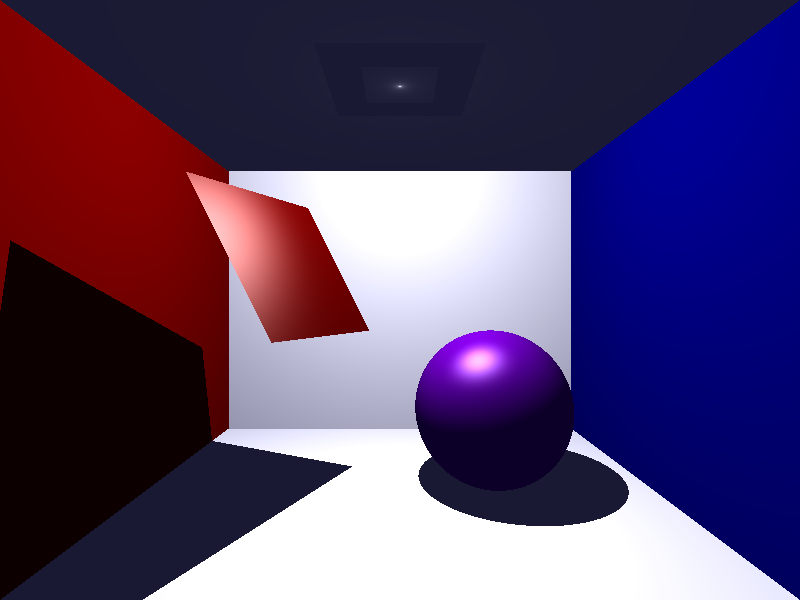
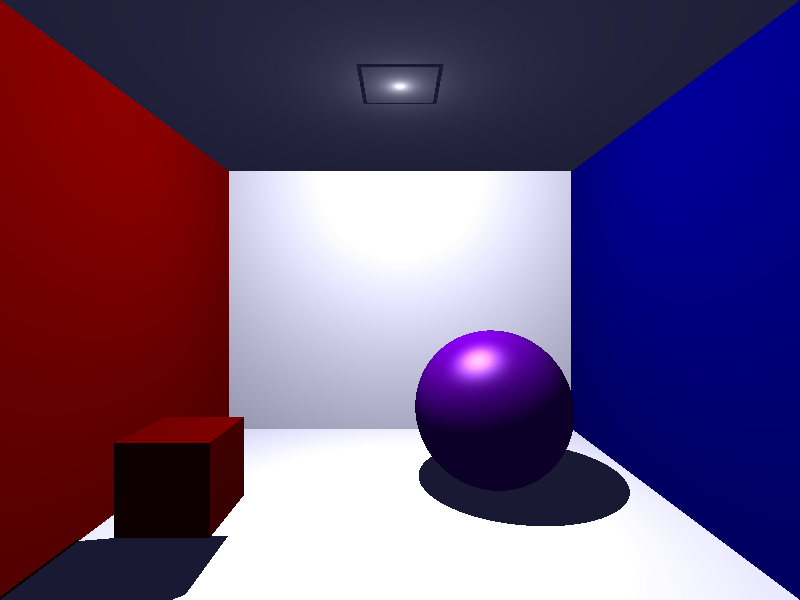
CUBE + plane & rotatefromto comments

diff --git a/VCG_Raytracer/src/scene/shape/Plane.java b/VCG_Raytracer/src/scene/shape/Plane.java
@@ -6,86 +6,6 @@ import utils.algebra.Matrix4x4;
 import utils.algebra.Vec3;
 import utils.algebra.Vec4;
 
-/* 
-public class Plane extends Shape {
-
-    Vec3 normal;
-    Float A,B,C, Q;
-
-    Matrix4x4 myTransformationMatrix;
-    Matrix4x4 myInverseMatrix;
-
-    public Plane(Vec3 _pos, Vec3 _normal, Material _material) {
-        super(_pos, _material);
-        //i think this is the only extra thing we need for a plane?
-        this.normal = _normal.normalize();
-        //ABC UND Q SETZEN
-        A = this.normal.x;
-        B = this.normal.y;
-        C = this.normal.z;
-
-        //Q needs to be constant based off of the normal and plane position
-        Q = -normal.scalar(position);
-
-
-        this.myTransformationMatrix = new Matrix4x4();
-        this.addInvTranslation(_pos);
-        this.myInverseMatrix = myTransformationMatrix.invert();
-        intersectionData.setShape(this);
-    }
-
-    public void addInvTranslation (Vec3 _pos) { //why did we name this inv? when its not inverse??
-        Vec4 homoTrans = new Vec4(_pos.x, _pos.y, _pos.z, 1);
-        myTransformationMatrix = myTransformationMatrix.translateXYZW(homoTrans);
-    }
-
-
-    public Ray createTransformedRay(Ray _ray){
-        Vec3 newOrigin = this.myInverseMatrix.multVec3(_ray.getOrigin(), true);
-        Vec3 newDirection = this.myInverseMatrix.multVec3(_ray.getDirection(), false).normalize();
-        return new Ray(newOrigin, newDirection);
-    }
-
-    public Intersection intersect(Ray ray){
-        Intersection intersection = new Intersection();
-
-        Ray transformedRay = createTransformedRay(ray);
-
-        Vec3 ray_origin = transformedRay.getOrigin();
-        Vec3 ray_direction = transformedRay.getDirection().add(position);
-        
-        float check = normal.scalar(ray_direction);
-        float t = -(A * ray_origin.x + B * ray_origin.y + C * ray_origin.z + Q)/(A * ray_direction.x + B * ray_direction.y + C * ray_direction.z);
-        //think should be the same as
-        t = -(normal.scalar(ray_origin) + Q )/ normal.scalar(ray_direction);
-
-        //check < 0 to see if we are hitting the plane from the front -> as long as we dont have a plane between a shape and a light this should be fine
-        intersection.setHit(check < 0); 
-        intersection.setShape(this);
-        intersection.setNormal(normal);
-        intersection.setDistance(ray.calculateRayAt(t).length());
-        //System.err.println(intersectionData.getDistance());
-        intersection.setIntersectionPoint(ray_origin.add(ray_direction.multScalar(t)));
-
-
-        // We need: local intersection point
-        Vec3 local_intersection = ray_origin.add(ray_direction.multScalar(t));
-        //Transform into global coordinates
-        Vec3 global_intersection = myTransformationMatrix.multVec3(local_intersection, true);
-
-        intersection.setDistance(global_intersection.sub(ray.getOrigin()).length());
-        intersection.setIntersectionPoint(global_intersection);
-        intersection.setShape(this);
-        intersection.setInRay(ray);
-        // OutRay is set in Material Shadow calc if needed
-
-        return intersection;
-    }
-    
-}*/
-
-
-//testing version 
 public class Plane extends Shape {
 
     protected Matrix4x4 myTransformationMatrix;
@@ -98,22 +18,17 @@ public class Plane extends Shape {
         super(pos, material);
         this.normal = normal;
 
-        this.myTransformationMatrix = new Matrix4x4();
-
         setupMatrix(pos, normal.normalize());
-
         this.myInverseMatrix = myTransformationMatrix.invert();
-        intersectionData.setShape(this);
     }
 
     private void setupMatrix(Vec3 pos, Vec3 normal) {
-        // lokale Plane: y = 0, Normal (0,1,0)
-        // jetzt Matrix bauen, die (0,1,0) auf normal rotiert
+        // startingpoint for plane:
+        // local Plane: y = 0, Normal (0,1,0) --> this is pretty much the same as in sphere where we take as startingpoint 0,0,0 with radius 1
+
         Matrix4x4 rotation = Matrix4x4.rotationFromTo(new Vec3(0, 1, 0), normal);
-
         Matrix4x4 translation = new Matrix4x4().translateXYZW(new Vec4(pos.x, pos.y, pos.z, 1));
-
-        // Reihenfolge wie bei Sphere: erst Rotation, dann Translation
+        //first we rotate then we translate
         myTransformationMatrix = translation.mult(rotation);
     }
 
@@ -124,41 +39,42 @@ public class Plane extends Shape {
         return new Ray(newOrigin, newDirection);
     }
 
-    @Override
+
     public Intersection intersect(Ray ray) {
         Intersection intersection = new Intersection();
 
         Ray transformedRay = createTransformedRay(ray);
 
-        Vec3 localOrigin = transformedRay.getOrigin();
-        Vec3 localDirection = transformedRay.getDirection();
+        Vec3 rayOrigin = transformedRay.getOrigin();
+        Vec3 rayDirection = transformedRay.getDirection();
 
-        float check = localNormal.scalar(localDirection);
+        float check = localNormal.scalar(rayDirection);
 
+        //treffen wir die plane? -> safety check to make sure the ray isnt going parallel to the plane
+        //basically step size on Y -> if 0 we never hit plane
         if (Math.abs(check) < 0.0001f) {
             return null;
         }
 
-        // lokale Plane ist y = 0
-        float t = -localOrigin.y / check;
+        // local Plane we've defined as y = 0
+        float t = -rayOrigin.y / check;
 
+        //distance check to make sure the hit is infront of us and not behind us
         if (t <= 0.0001f) {
             return null;
         }
 
-        Vec3 localIntersection = localOrigin.add(localDirection.multScalar(t));
+        //transform everything to global coordinate system
+        Vec3 localIntersection = rayOrigin.add(rayDirection.multScalar(t));
         Vec3 globalIntersection = myTransformationMatrix.multVec3(localIntersection, true);
 
-        //isnt this completely overkill like we dont need this since we can simply save the normal from constructor and set that
-        Vec3 globalNormal = myInverseMatrix
-            .transpose()
-            .multVec3(localNormal, false)
-            .normalize();
+        //we do this here now since else i think it would break later if we end up doing non-uniform scaling
+        Vec3 globalNormal = myInverseMatrix.transpose().multVec3(localNormal, false).normalize();
 
         intersection.setHit(true);
         intersection.setDistance(globalIntersection.sub(ray.getOrigin()).length());
         intersection.setIntersectionPoint(globalIntersection);
-        intersection.setNormal(normal);//changed this from gloabalNormal to normal given in constructor
+        intersection.setNormal(globalNormal); //why not just use normal? -> read comment above globalNormal
         intersection.setShape(this);
         intersection.setInRay(ray);
 

diff --git a/VCG_Raytracer/src/scene/shape/Cube.java b/VCG_Raytracer/src/scene/shape/Cube.java
@@ -16,46 +16,61 @@ public class Cube extends Square{
         //okay yea cant get this perfectly working so for now ill leave it like this
         //-> basically lighting is scuff
 
+        //we need to save the distance of each side of our cube that gets hit and only return the closest hit AND NOT THE FIRST!!!
+        Intersection closest = null;
+        float closestDistance = Float.MAX_VALUE;
+
         this.normal = new Vec3(1, 0, 0);
         test = new Square(this.size, new Vec3(position.x + size/2, position.y, position.z), normal, material);
         Intersection side1 = test.intersect(ray);
-        if(side1 != null && side1.isHit())
-            return side1;
+        if(side1 != null && side1.isHit() && side1.getDistance() < closestDistance) {
+            closest = side1;
+            closestDistance = side1.getDistance();
+        }
 
         this.normal = new Vec3(-1, 0, 0);
         test = new Square(this.size, new Vec3(position.x - size/2, position.y, position.z), normal, material);
         Intersection side2 = test.intersect(ray);
-        if(side2 != null && side2.isHit())
-            return side2;
+        if(side2 != null && side2.isHit() && side2.getDistance() < closestDistance) {
+            closest = side2;
+            closestDistance = side2.getDistance();
+        }
 
         this.normal = new Vec3(0, 1, 0);
         test = new Square(this.size, new Vec3(position.x, position.y + size/2, position.z), normal, material);
         Intersection side3 = test.intersect(ray);
-        if(side3 != null && side3.isHit())
-            return side3;
+        if(side3 != null && side3.isHit() && side3.getDistance() < closestDistance) {
+            closest = side3;
+            closestDistance = side3.getDistance();
+        }
 
         this.normal = new Vec3(0, -1, 0);
         test = new Square(this.size, new Vec3(position.x, position.y - size/2, position.z), normal, material);
         Intersection side4 = test.intersect(ray);
-        if(side4 != null && side4.isHit())
-            return side4;
+        if(side4 != null && side4.isHit() && side4.getDistance() < closestDistance) {
+            closest = side4;
+            closestDistance = side4.getDistance();
+        }
 
         this.normal = new Vec3(0, 0, 1);
         test = new Square(this.size, new Vec3(position.x, position.y, position.z + size/2), normal, material);
         Intersection side5 = test.intersect(ray);
-        if(side5 != null && side5.isHit())
-            return side5;
+        if(side5 != null && side5.isHit() && side5.getDistance() < closestDistance) {
+            closest = side5;
+            closestDistance = side5.getDistance();
+        }
 
         this.normal = new Vec3(0, 0, -1);
         test = new Square(this.size, new Vec3(position.x, position.y, position.z - size/2), normal, material);
         Intersection side6 = test.intersect(ray);
-        if(side6 != null && side6.isHit())
-            return side6;
+        if(side6 != null && side6.isHit()&& side6.getDistance() < closestDistance){
+            closest = side6;
+            closestDistance = side6.getDistance();
+        }
 
-        if(side1 == null)
+        if(closest == null)
             return null;
-        side1.setHit(false);
-        return side1;
+        return closest;
     }
 
     

diff --git a/VCG_Raytracer/src/utils/algebra/Matrix4x4.java b/VCG_Raytracer/src/utils/algebra/Matrix4x4.java
@@ -28,38 +28,55 @@ public class Matrix4x4 {
 		return out;
 	}
 
+	//this function uses the Rodrigues-Rotationmatrix formular
 	public static Matrix4x4 rotationFromTo(Vec3 from, Vec3 to){
 		Matrix4x4 out = new Matrix4x4();
 		
-		from = from.normalize();
-		to = to.normalize();
+		Vec3 startingRotation = from.normalize();
+		Vec3 targetRotation = to.normalize();
 
-		Vec3 v = from.cross(to);
+		//kreuzprodukt sagt uns hier im welche Achse wir drehen müssen
+		Vec3 rotationAxis = startingRotation.cross(targetRotation);
 
-		float s = v.length();
-		float c = from.scalar(to);
 
-		if (s < 0.00001f){
-			return out; // Identity
+		//cosTheta weil vektorA * vektorB = cosTheta -> A * B = |A|*|B|*cosTheta -> weil wir die vektoren normiert haben fallen |A| und |B| weg
+		float cosTheta = startingRotation.scalar(targetRotation); 
+
+		//check if from and to are facing EXACT opposite directions
+		if (cosTheta < -0.9999f){
+			out.setValueAt(0,0,-1);
+			out.setValueAt(1,1,-1);
+			out.setValueAt(2,2, 1);
+
+			return out;
 		}
 
-		float vx = v.x;
-		float vy = v.y;
-		float vz = v.z;
+		//sinTheta weil |A x B| = |A| * |B| * sinTheta -> weil beide vektoren normiert sind fällt alles bis auf sinTheta rechts weg
+		float sinTheta = rotationAxis.length();
+		
 
-		float k = (1 - c) / (s * s);
+		//if we never get closer to our plane
+		if (sinTheta < 0.00001f){
+			return out; //Vectors are parallel so we dont have to rotate
+		}
 
-		out.setValueAt(0, 0,  1 + k * (-vy*vy - vz*vz));
-		out.setValueAt(0, 1, -vz + k * vx*vy);
-		out.setValueAt(0, 2, vy + k * vx*vz);
+		float axisX = rotationAxis.x;
+		float axisY = rotationAxis.y;
+		float axisZ = rotationAxis.z;
 
-		out.setValueAt(1, 0,  vz + k * vy*vx);
-		out.setValueAt(1, 1, 1 + k * (-vx*vx - vz*vz));
-		out.setValueAt(1, 2,  -vx + k * vy*vz);
+		float factor_K = (1 - cosTheta) / (sinTheta * sinTheta);
 
-		out.setValueAt(2, 0, -vy + k * vz*vx);
-		out.setValueAt(2, 1,  vx + k * vz*vy);
-		out.setValueAt(2, 2, 1 + k * (-vx*vx - vy*vy));
+		out.setValueAt(0, 0,  1 + factor_K * (-axisY*axisY - axisZ*axisZ));
+		out.setValueAt(0, 1, -axisZ + factor_K * axisX*axisY);
+		out.setValueAt(0, 2, axisY + factor_K * axisX*axisZ);
+
+		out.setValueAt(1, 0,  axisZ + factor_K * axisY*axisX);
+		out.setValueAt(1, 1, 1 + factor_K * (-axisX*axisX - axisZ*axisZ));
+		out.setValueAt(1, 2,  -axisX + factor_K * axisY*axisZ);
+
+		out.setValueAt(2, 0, -axisY + factor_K * axisZ*axisX);
+		out.setValueAt(2, 1,  axisX + factor_K * axisZ*axisY);
+		out.setValueAt(2, 2, 1 + factor_K * (-axisX*axisX - axisY*axisY));
 
 		return out;
 	}

diff --git a/VCG_Raytracer/src/Main.java b/VCG_Raytracer/src/Main.java
@@ -70,7 +70,7 @@ public class Main {
     static final RgbColor BACKGROUND_COLOR = RgbColor.BLACK;
 
     //DONT SET HEIGHT TO EXACT SAME VALUE AS ROOF PLANE ELSE YOULL SUMMON A DEMON!!!
-    static final Vec3 LIGHT_POSITION = new Vec3(0,5.98f,0); 
+    static final Vec3 LIGHT_POSITION = new Vec3(0,5.9f,0); 
     static final short AREA_LIGHT_SIZE = 2;
 
     /** GI **/
@@ -166,7 +166,8 @@ public class Main {
         renderScene.createSquare(1, new Vec3(0f, 5.99f, 0f), new Vec3(0f, -1f, 0f), new Lambert(RgbColor.WHITE));
 
         //testing square
-        renderScene.createSquare(2, new Vec3(-1.5f, 3.5f, 0f), new Vec3(1f, 0.5f, 0.5f), new Phong(RgbColor.RED, new RgbColor(0.8f, 0.8f, 0.8f), 8));
+        //renderScene.createSquare(2, new Vec3(-1.5f, 3.5f, 0f), new Vec3(1f, 0.5f, 0.5f), new Phong(RgbColor.RED, new RgbColor(0.8f, 0.8f, 0.8f), 8));
+        renderScene.createCube(1f, new Vec3(-2.5f, 1f, 1f),new Phong(RgbColor.RED, new RgbColor(0.8f, 0.8f, 0.8f), 8));
 
         //testing shadow projection
         //renderScene.createSphere(new Vec3(1f, 0,0), 0.75f, mat_phong);
